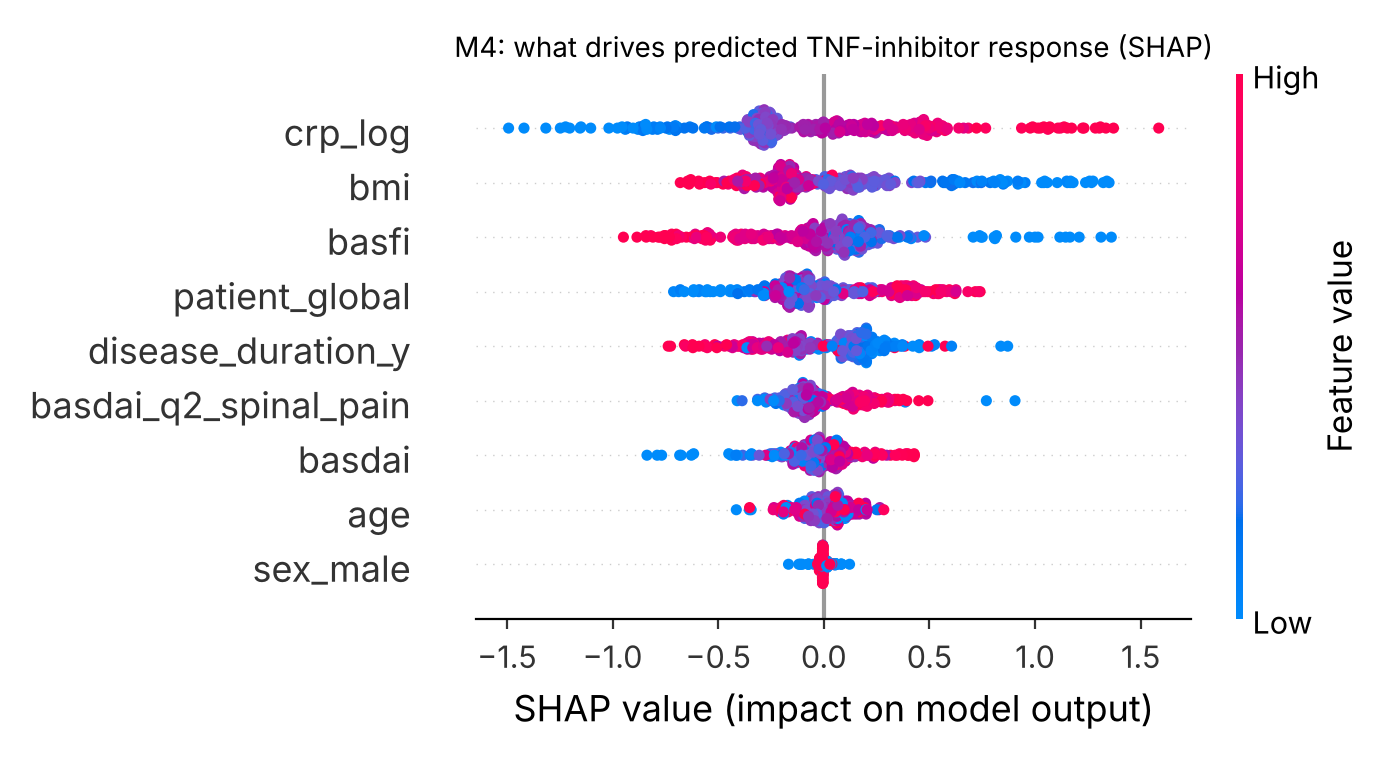
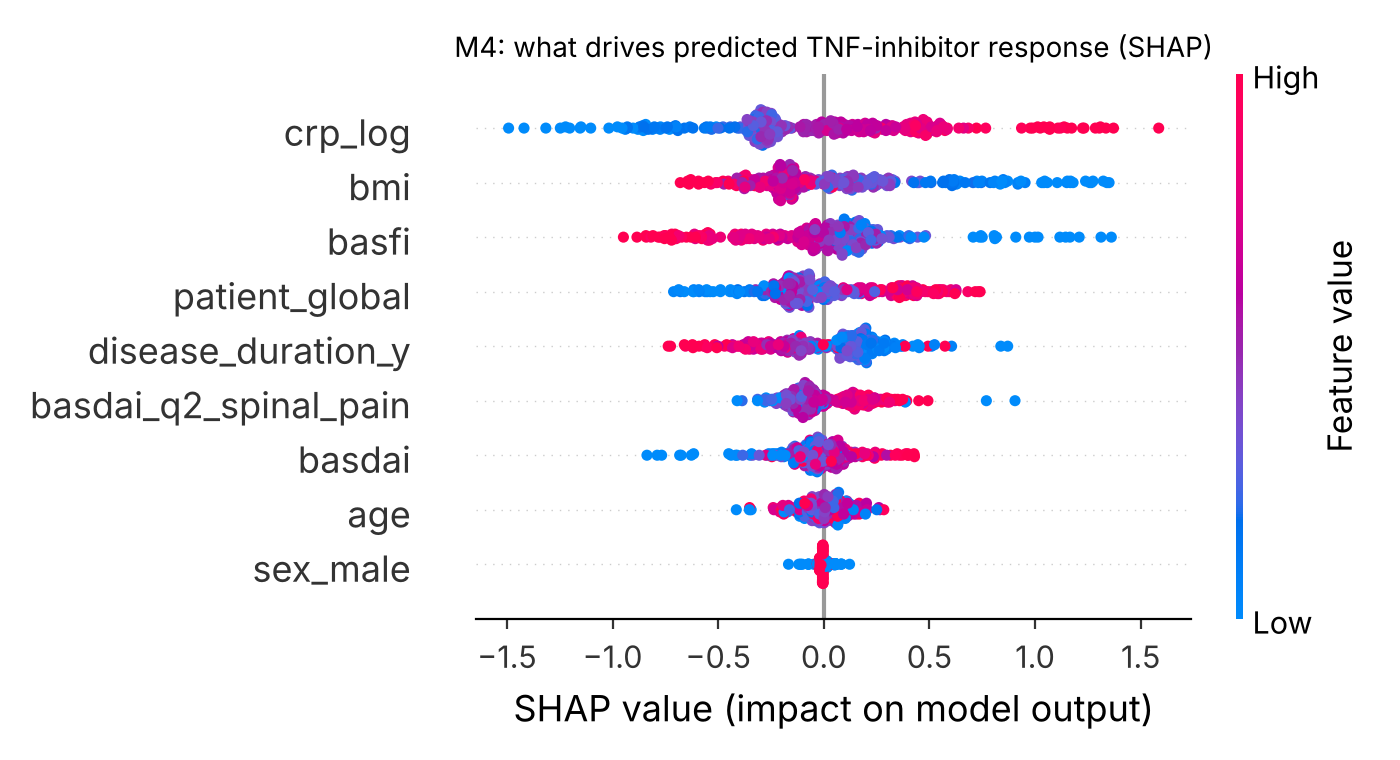
Add --dpi and --out options to screenshot builder and alert-card maker
Lets the README screenshots be regenerated at 600 dpi for slides and posters.

Claude-Session: https://claude.ai/code/session_01JNwizWtoFvh2THcEUcXSSc

Changed region(s): [[0.4914, 0.1211, 0.7064, 0.6961], [0.5836, 0.7263, 0.6143, 0.7566], [0.4914, 0.3026, 0.5221, 0.3329]]

diff --git a/tools/make_screenshots.py b/tools/make_screenshots.py
@@ -28,7 +28,13 @@ from spa_sentinel.card import make_card
 from spa_sentinel.models import calibration_table, prep_m4, M4_FEATURES, train_m2
 from spa_sentinel.roi import run, Assumptions
 
-OUT = os.path.join(ROOT, "docs", "screenshots")
+import argparse
+_ap = argparse.ArgumentParser(description="Regenerate README screenshots from live output.")
+_ap.add_argument("--dpi", type=int, default=200, help="image resolution (default 200)")
+_ap.add_argument("--out", default=os.path.join(ROOT, "docs", "screenshots"), help="output folder")
+_args = _ap.parse_args()
+DPI = _args.dpi
+OUT = _args.out
 os.makedirs(OUT, exist_ok=True)
 BLUE, ORANGE, AQUA, INK2 = "#2a78d6", "#eb6834", "#1baf7a", "#52514e"
 
@@ -38,7 +44,7 @@ def terminal(text, title, fname, width=100):
     for raw in text.rstrip().split("\n"):
         lines += textwrap.wrap(raw, width, subsequent_indent="    ") or [""]
     h = 0.62 + 0.165 * len(lines)
-    fig = plt.figure(figsize=(9.2, h), dpi=200)
+    fig = plt.figure(figsize=(9.2, h), dpi=DPI)
     ax = fig.add_axes([0, 0, 1, 1]); ax.axis("off"); ax.set_xlim(0, 1); ax.set_ylim(0, h)
     ax.add_patch(plt.Rectangle((0, 0), 1, h, color="#1e1f24"))
     ax.add_patch(plt.Rectangle((0, h - 0.34), 1, 0.34, color="#34363d"))
@@ -52,7 +58,7 @@ def terminal(text, title, fname, width=100):
         elif "[INFO]" in l: col = "#7ee787"
         elif l.startswith("$"): col = "#79c0ff"
         ax.text(0.015, h - 0.5 - i * 0.165, l, color=col, ha="left", va="center", fontsize=7.4, family="DejaVu Sans Mono")
-    fig.savefig(os.path.join(OUT, fname), dpi=200); plt.close(fig)
+    fig.savefig(os.path.join(OUT, fname), dpi=DPI); plt.close(fig)
 
 
 def capture(fn, *a):
@@ -75,7 +81,7 @@ terminal("$ python -m spa_sentinel.cli metrics\n\n" + cli.metrics_table(T).to_st
          "SpA-Sentinel - test-set metrics on synthetic data", "03_model_metrics.png")
 
 # 4. ROC and calibration
-fig, axes = plt.subplots(1, 2, figsize=(9, 3.6), dpi=200)
+fig, axes = plt.subplots(1, 2, figsize=(9, 3.6), dpi=DPI)
 for name, (y, pr), c in [("M1 flare (AUROC %.2f)" % T["m1_metrics"]["auroc"], T["m1_eval"], BLUE),
                          ("M2 infection (AUROC %.2f)" % T["m2_metrics"]["auroc"], T["m2_eval"], ORANGE)]:
     fpr, tpr, _ = roc_curve(y, pr); axes[0].plot(fpr, tpr, color=c, lw=2, label=name)
@@ -95,7 +101,7 @@ rows = []
 for tgt in (0.90, 0.95, 0.98):
     _, thr, m, _ = train_m2(cli.load_tables()["crp_episodes"], target_sensitivity=tgt)
     rows.append((tgt, m["sensitivity_infection"], m["specificity"]))
-fig, ax = plt.subplots(figsize=(6.4, 3.4), dpi=200)
+fig, ax = plt.subplots(figsize=(6.4, 3.4), dpi=DPI)
 x = np.arange(len(rows)); w = 0.36
 ax.bar(x - w / 2, [r[1] for r in rows], w, color=ORANGE, label="infections caught (sensitivity)")
 ax.bar(x + w / 2, [r[2] for r in rows], w, color=BLUE, label="flares cleared (specificity)")
@@ -110,13 +116,13 @@ plt.tight_layout(); fig.savefig(os.path.join(OUT, "05_m2_tradeoff.png")); plt.cl
 import shap
 X4 = prep_m4(T["m4_test"])[M4_FEATURES]
 sv = shap.TreeExplainer(T["m4"]).shap_values(X4)
-plt.figure(dpi=200); shap.summary_plot(sv, X4, show=False, plot_size=(7, 3.8))
+plt.figure(dpi=DPI); shap.summary_plot(sv, X4, show=False, plot_size=(7, 3.8))
 plt.title("M4: what drives predicted TNF-inhibitor response (SHAP)", fontsize=10); plt.tight_layout()
 plt.savefig(os.path.join(OUT, "06_shap_m4.png")); plt.close()
 
 # 7. Cox hazard ratios for new IBD
 s = T["m3"]["ibd"]["model"].summary
-fig, ax = plt.subplots(figsize=(6.4, 3.0), dpi=200)
+fig, ax = plt.subplots(figsize=(6.4, 3.0), dpi=DPI)
 yy = np.arange(len(s))[::-1]
 ax.errorbar(s["exp(coef)"], yy, xerr=[s["exp(coef)"] - s["exp(coef) lower 95%"], s["exp(coef) upper 95%"] - s["exp(coef)"]],
             fmt="o", color=BLUE, ecolor="#9fc3ee", capsize=3)
@@ -126,7 +132,7 @@ for sp in ["top", "right"]: ax.spines[sp].set_visible(False)
 plt.tight_layout(); fig.savefig(os.path.join(OUT, "07_cox_ibd.png")); plt.close(fig)
 
 # 8. Alert card
-make_card(cli.PATIENT_A, "advice line 0113 000 0000 (demo)", os.path.join(OUT, "08_alert_card.png"))
+make_card(cli.PATIENT_A, "advice line 0113 000 0000 (demo)", os.path.join(OUT, "08_alert_card.png"), dpi=max(DPI, 300))
 
 # 9. ROI tool
 terminal("$ python -m spa_sentinel.cli roi\n" + capture(cli.cmd_roi, type("A", (), dict(patients=1200, trusts=1, admit_avoided=0.2))) +

diff --git a/spa_sentinel/card.py b/spa_sentinel/card.py
@@ -7,8 +7,8 @@ import matplotlib.pyplot as plt
 from matplotlib.patches import FancyBboxPatch
 
 
-def make_card(patient: dict, contact: str, path: str = "alert_card.png") -> str:
-    fig = plt.figure(figsize=(3.37, 2.13), dpi=300)  # credit-card size, inches
+def make_card(patient: dict, contact: str, path: str = "alert_card.png", dpi=300) -> str:
+    fig = plt.figure(figsize=(3.37, 2.13), dpi=dpi)  # credit-card size, inches
     ax = fig.add_axes([0, 0, 1, 1]); ax.axis("off"); ax.set_xlim(0, 1); ax.set_ylim(0, 1)
     ax.add_patch(FancyBboxPatch((0.02, 0.03), 0.96, 0.94, boxstyle="round,pad=0,rounding_size=0.04",
                                 fc="#dcf3ea", ec="#1baf7a", lw=1.5))
@@ -25,5 +25,5 @@ def make_card(patient: dict, contact: str, path: str = "alert_card.png") -> str:
            f"if sepsis is suspected.\nRheumatology: {contact}")
     ax.text(0.06, 0.75, txt, ha="left", va="top", fontsize=5.3, color="#0b0b0b", linespacing=1.35)
     ax.text(0.94, 0.06, "Demo card - synthetic data", ha="right", va="bottom", fontsize=4, color="#52514e")
-    fig.savefig(path, dpi=300); plt.close(fig)
+    fig.savefig(path, dpi=dpi); plt.close(fig)
     return path

diff --git a/README.md b/README.md
@@ -160,7 +160,7 @@ jupyter notebook notebooks/SpA_Sentinel_Demo.ipynb
 | **Alert-card maker** | `python -m spa_sentinel.cli card --remission 6 --flare 32 --biologic TNFi --out card.png` | Makes a printable patient inflammation alert card |
 | **Synthetic data generator** | `python -m spa_sentinel.data_gen` | Rebuilds the five CSV files in `data/` |
 | **Paper figure builder** | `python tools/paper_figures.py --dpi 600` | Redraws Figures 1–5 of the paper at any resolution into `docs/figures/` |
-| **Screenshot builder** | `python tools/make_screenshots.py` | Regenerates every screenshot in this README from live output |
+| **Screenshot builder** | `python tools/make_screenshots.py [--dpi 600 --out folder]` | Regenerates every screenshot in this README from live output, at any resolution |
 | **Demo notebook** | `notebooks/SpA_Sentinel_Demo.ipynb` | End-to-end walk-through: data, models, rules, agent, explanations, ROI |
 | **Tests** | `pytest -q tests` | Checks that the safety rules behave as designed and the ROI matches the paper |
 
